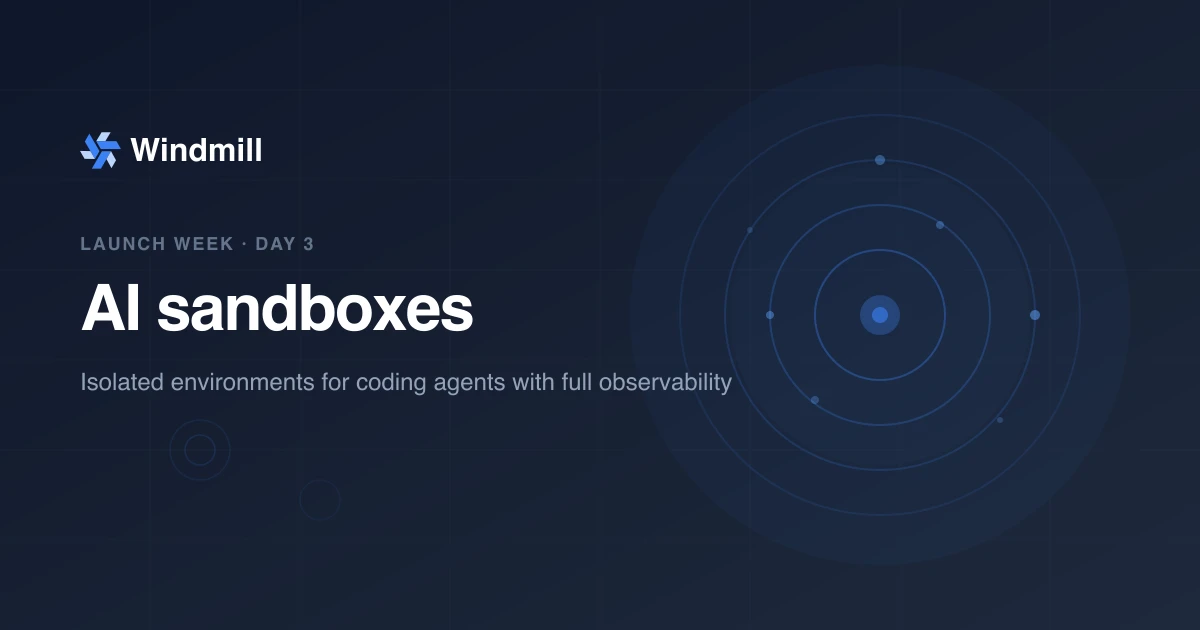
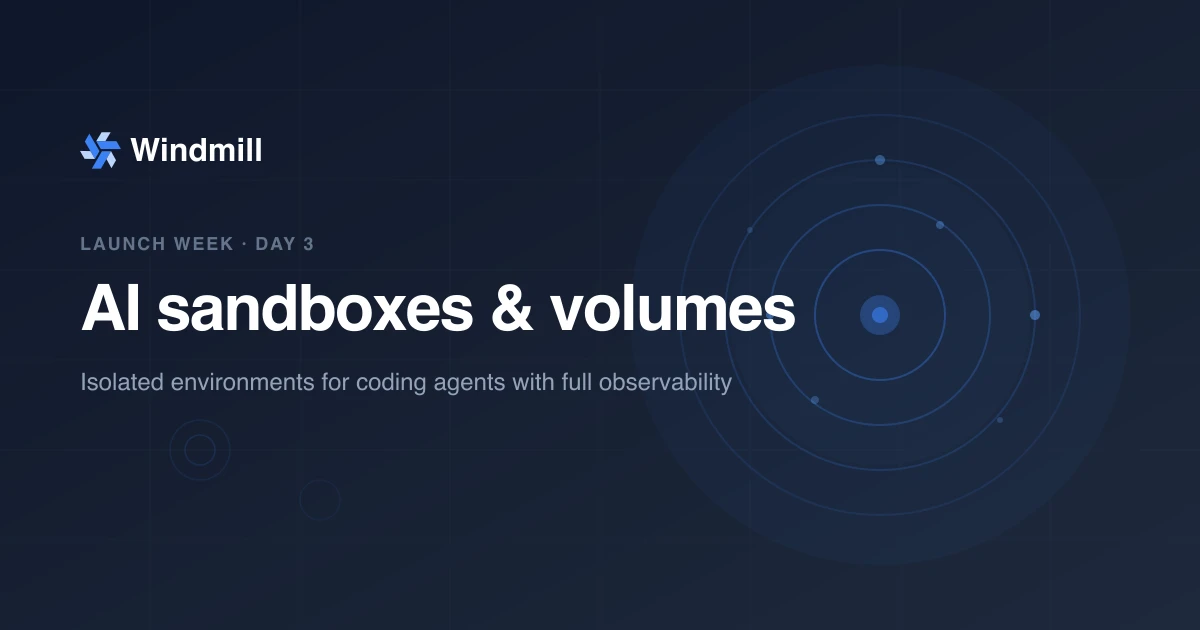
Improve sandboxes blog post

Changed region(s): [[0.4008, 0.4524, 0.6783, 0.5429]]

diff --git a/src/pages/launch-week-march-2026.jsx b/src/pages/launch-week-march-2026.jsx
@@ -177,7 +177,7 @@ const days = [
 		weekday: 'Wednesday',
 		date: 'Apr 1',
 		releaseDate: new Date('2026-04-01T00:00:00'),
-		title: 'AI sandboxes',
+		title: 'AI sandboxes & volumes',
 		description: 'Run Claude Code, Codex, or custom agents in isolated environments with persistent volumes.',
 		href: '/blog/launch-week-ai-sandboxes',
 	},
@@ -327,7 +327,7 @@ export default function LaunchWeekPage() {
 		'@type': 'Event',
 		name: 'Windmill launch week',
 		description:
-			'Five major releases in one week: full code apps, data tables, AI sandboxes, Git sync v2, and workflow-as-code v2.',
+			'Five major releases in one week: full code apps, data tables, AI sandboxes & volumes, Git sync v2, and workflow-as-code v2.',
 		startDate: '2026-03-30',
 		endDate: '2026-04-03',
 		eventAttendanceMode: 'https://schema.org/OnlineEventAttendanceMode',
@@ -354,7 +354,7 @@ export default function LaunchWeekPage() {
 					<meta name="title" content="Launch week | Windmill" />
 					<meta
 						name="description"
-						content="What is new in Windmill? Five major releases in one week: full code apps, data tables, AI sandboxes, Git sync v2, and workflow-as-code v2."
+						content="What is new in Windmill? Five major releases in one week: full code apps, data tables, AI sandboxes & volumes, Git sync v2, and workflow-as-code v2."
 					/>
 					<link rel="icon" href="/img/logo.svg" />
 					<script type="application/ld+json">{JSON.stringify(eventSchema)}</script>
@@ -377,7 +377,7 @@ export default function LaunchWeekPage() {
 									Launch week #2
 								</div>
 								<p className="mt-6 text-lg text-gray-500 dark:text-gray-400">
-									Five days, five releases. Full-code apps, data tables, AI sandboxes, Git sync and workflow-as-code.
+									Five days, five releases. Full-code apps, data tables, AI sandboxes & volumes, Git sync and workflow-as-code.
 								</p>
 							</motion.div>
 						</div>

diff --git a/src/data/launch-weeks.js b/src/data/launch-weeks.js
@@ -10,7 +10,7 @@ export const launchWeeks = [
 		number: 2,
 		title: 'Launch week #2',
 		date: 'March 2026',
-		description: 'Full-code apps, data tables, AI sandboxes, Git sync, and workflow-as-code.',
+		description: 'Full-code apps, data tables, AI sandboxes & volumes, Git sync, and workflow-as-code.',
 		href: '/launch-week-march-2026',
 	},
 ];
